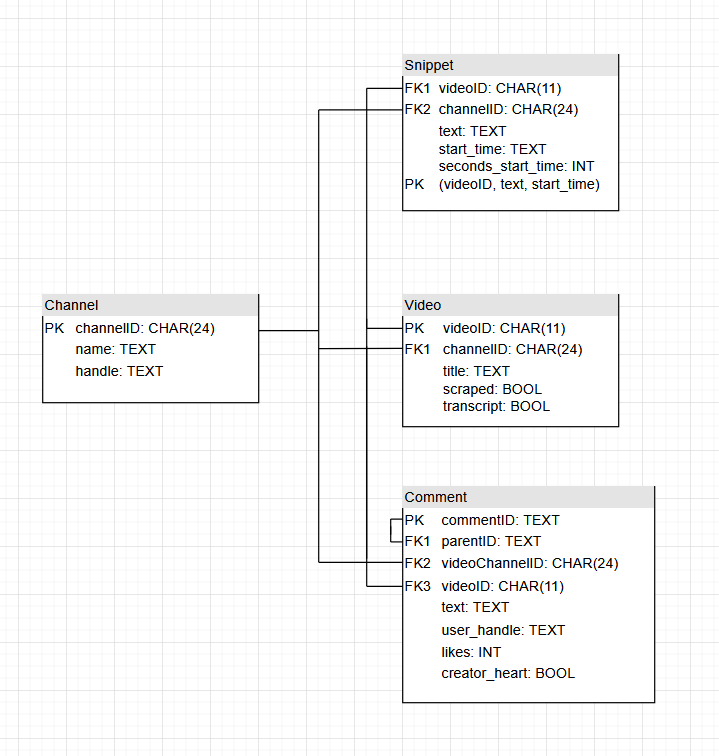
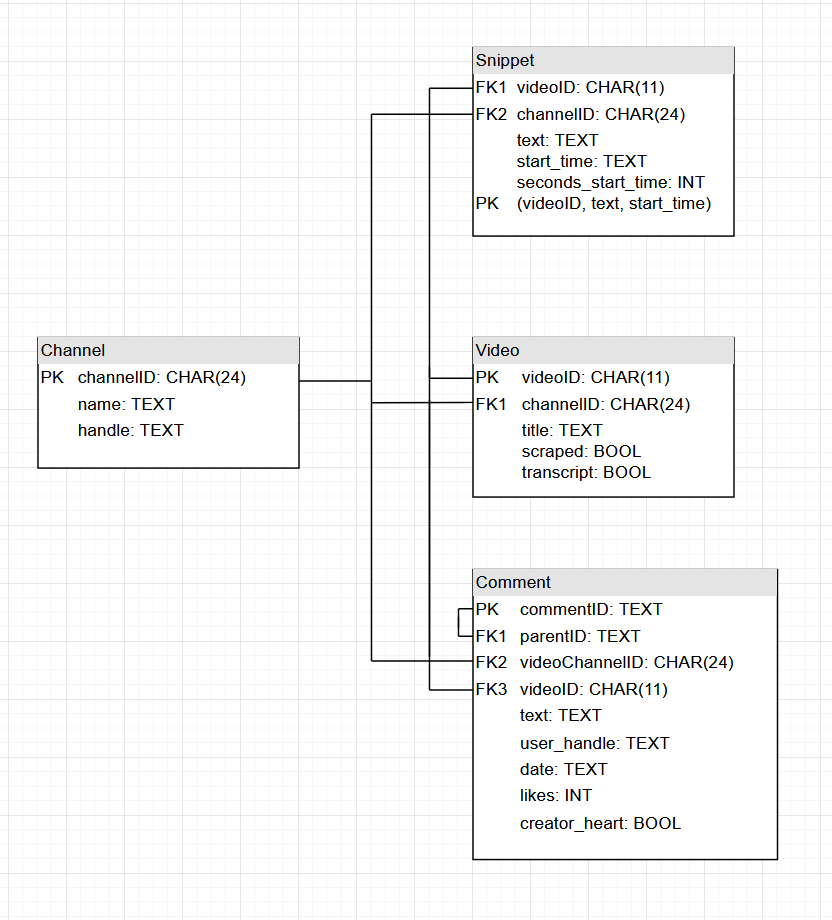
Added ability to save date text that also shows if the comment was edited. Updated Schema

Changed region(s): [[0.4284, 0.0304, 0.9485, 0.9431], [0.0306, 0.3651, 0.3672, 0.5476], [0.9179, 0.8214, 0.9485, 0.8519]]

diff --git a/main.py b/main.py
@@ -66,6 +66,7 @@ videochannelID CHAR(24),
 videoID CHAR(11),
 text TEXT,
 user_handle TEXT,
+date TEXT,
 likes INTEGER,
 creator_heart BOOL,
 PRIMARY KEY (commentID),
@@ -335,7 +336,7 @@ def parse_comment(comment: selenium.webdriver.remote.webelement.WebElement, vide
                                               ".//a[contains(@class, 'yt-simple-endpoint style-scope "
                                               "ytd-comment-view-model')]")
     href = curre_comment.get_attribute('href')
-
+    date = curre_comment.text
     if not href:
         print(comment)
         print("No href in comment?")
@@ -397,9 +398,9 @@ def parse_comment(comment: selenium.webdriver.remote.webelement.WebElement, vide
     if inner_html: creator_heart = True
     print(commentID, parentID, comment_text, handle, comment_likes, creator_heart)
     crsr.execute(
-        "INSERT OR REPLACE INTO comment (commentID, parentID, videochannelID, videoID, text, user_handle, likes, "
-        "creator_heart) VALUES (?, ?, ?, ?, ?, ?, ?, ?)",
-        (commentID, parentID, videoChannelID, videoID, comment_text, handle, comment_likes, creator_heart))
+        "INSERT OR REPLACE INTO comment (commentID, parentID, videochannelID, videoID, text, user_handle, date, likes, "
+        "creator_heart) VALUES (?, ?, ?, ?, ?, ?, ?, ?, ?)",
+        (commentID, parentID, videoChannelID, videoID, comment_text, handle, date, comment_likes, creator_heart))
     conn.commit()
     return commentID
 
